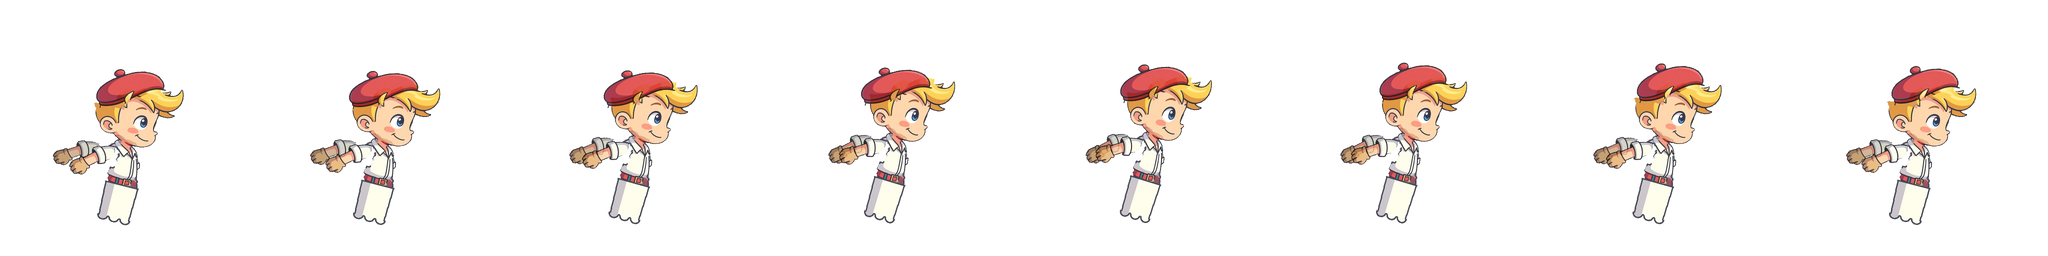
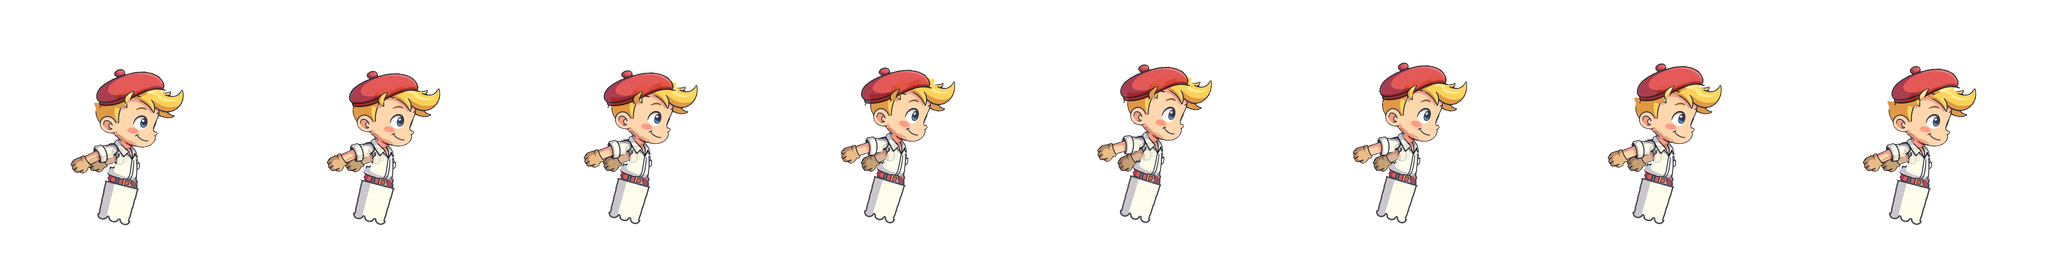
Gordeka 2D : Louis v3 (bras corrigés), décision du gabarit de corps commun
Claude-Session: https://claude.ai/code/session_01LXFHAN75rdxEcdsy5wKHqu

diff --git a/docs/GORDEKA_STYLE_2D.md b/docs/GORDEKA_STYLE_2D.md
@@ -91,6 +91,19 @@ En plus, par perso : un **portrait** (menus, HUD, podium), une **tête « surpri
 
 ## 4. Pipeline avec pixelforge
 
+> **Révisé le 2026-10-19 (Julien : « ça me va »)** : après trois allers-retours sur Louis (pieds,
+> bras, hanches), on abandonne la découpe d'un dessin libre par perso au profit d'un **gabarit de
+> corps commun**, comme Among Us.
+> - Un corps « humain » (et un « crabe » pour Karramarro) est dessiné pour l'animation : articulations
+>   en disques, pivots et proportions fixes. Les 15 chorégraphies y sont validées une fois.
+> - Chaque perso est un **habillage** du gabarit : tête et expressions, cheveux, chapeau en calque, couleurs
+>   et motifs par zone, chaussures. Les membres gardent la forme du gabarit.
+> - Compromis assumé : même silhouette pour tous ; on reconnaît les persos à leur tête, leur chapeau,
+>   leur tenue et leur couleur.
+>
+> Les étapes 2 et 3 ci-dessous décrivent l'approche d'avant (découpe par perso).
+
+
 Règle de base : l'outillage est **chez pixelforge** (styles de son API, testés dans sa CI) ;
 le jeu ne fait que demander, relire et intégrer.
 
